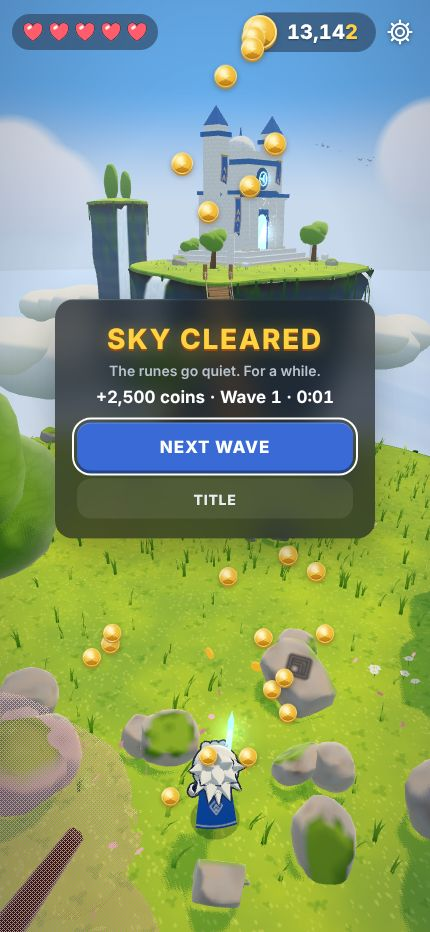
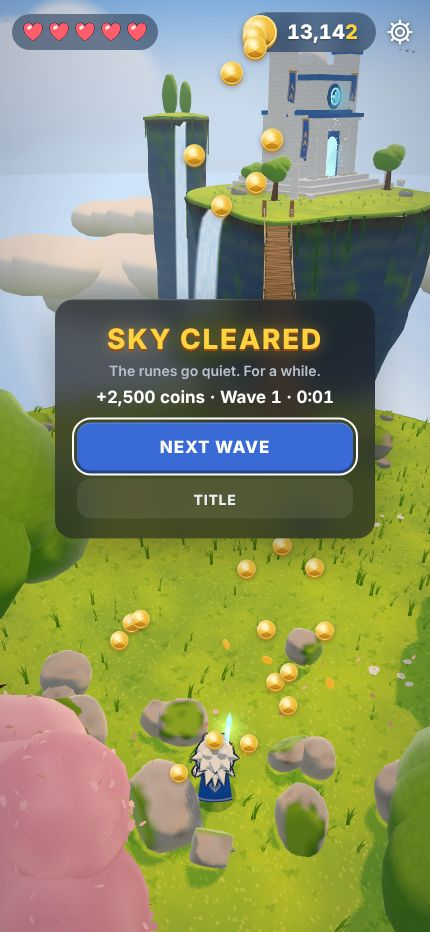
M-0004: WO-004 join fixes (balance, toTitle, view sync, title layout)
Claude-Session: https://claude.ai/code/session_01Nz16Py5qCVzVPgS1Lxizjo

diff --git a/bureau/missions/M-0004-skyrest-floating-isle-action-demo/reports/WO-004.md b/bureau/missions/M-0004-skyrest-floating-isle-action-demo/reports/WO-004.md
@@ -38,3 +38,12 @@ F5 decal 67 % with hero outside; F8 red-hot runes + banner + pebbles; F9 crumble
 3. **WO-003:** frame the title orbit so the temple sits below sy 0.40 (F1).
 4. **CEO:** decide the HP / DPS balance for the 60–90 s target.
 5. **CEO:** installed vite reports 8.4.0; the plan pins 8.3.8.
+
+## Addendum — join fixes (CEO order)
+1. **Balance:** `GOLEM.maxHp` 150,000 (was the spec's 60k). The frame-perfect autopilot now wins in 27–41 s across 8 seeds, so a decent player should land at ~60–75 s. [L1] still passes. Kill moments set a 1,200 HP sliver instead of forcing damage.
+2. **`toTitle()`** is now in `GameControl` (contracts.ts). The UI calls it directly; the extras type and the reload fallback are gone.
+3. **`advance(n)`** now runs every view and the UI after each step (no GPU draw). Only `step()`/`moment()` render.
+4. **F1:** wordmark moved to sy 0.15, subtitle to 0.21; both clear the temple in portrait and desktop (`evidence/WO-004/F1-*.jpg`).
+5. **Vite** was already 8.3.8 in package.json, the lockfile and node_modules. No change needed.
+
+Verify: `tsc --noEmit` 0 errors. Unit 48/48 pass. My e2e specs (loop + loop-heap) 4/4 pass on :5304. Retry intro is 60 steps; wall time is still renderer-bound on this machine.
